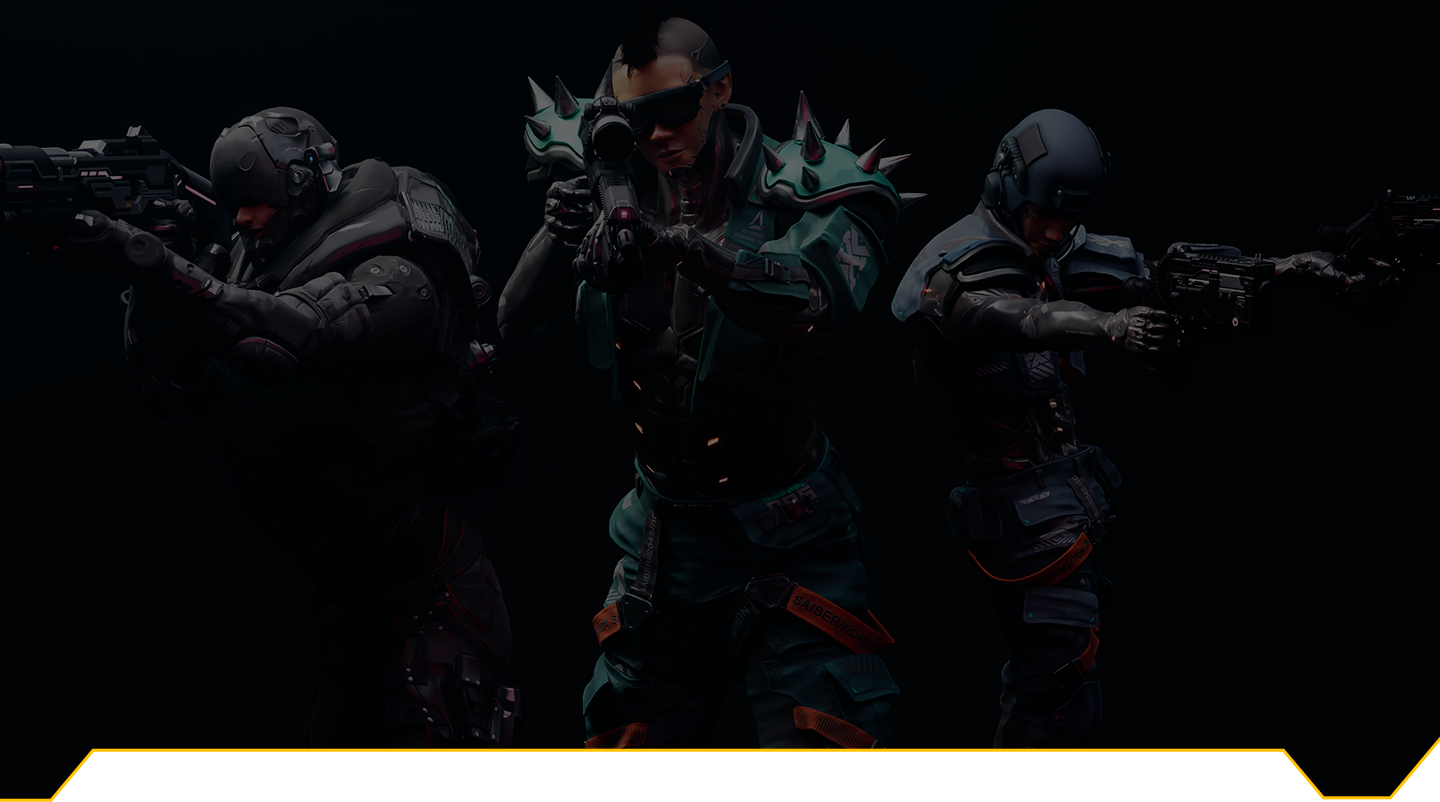
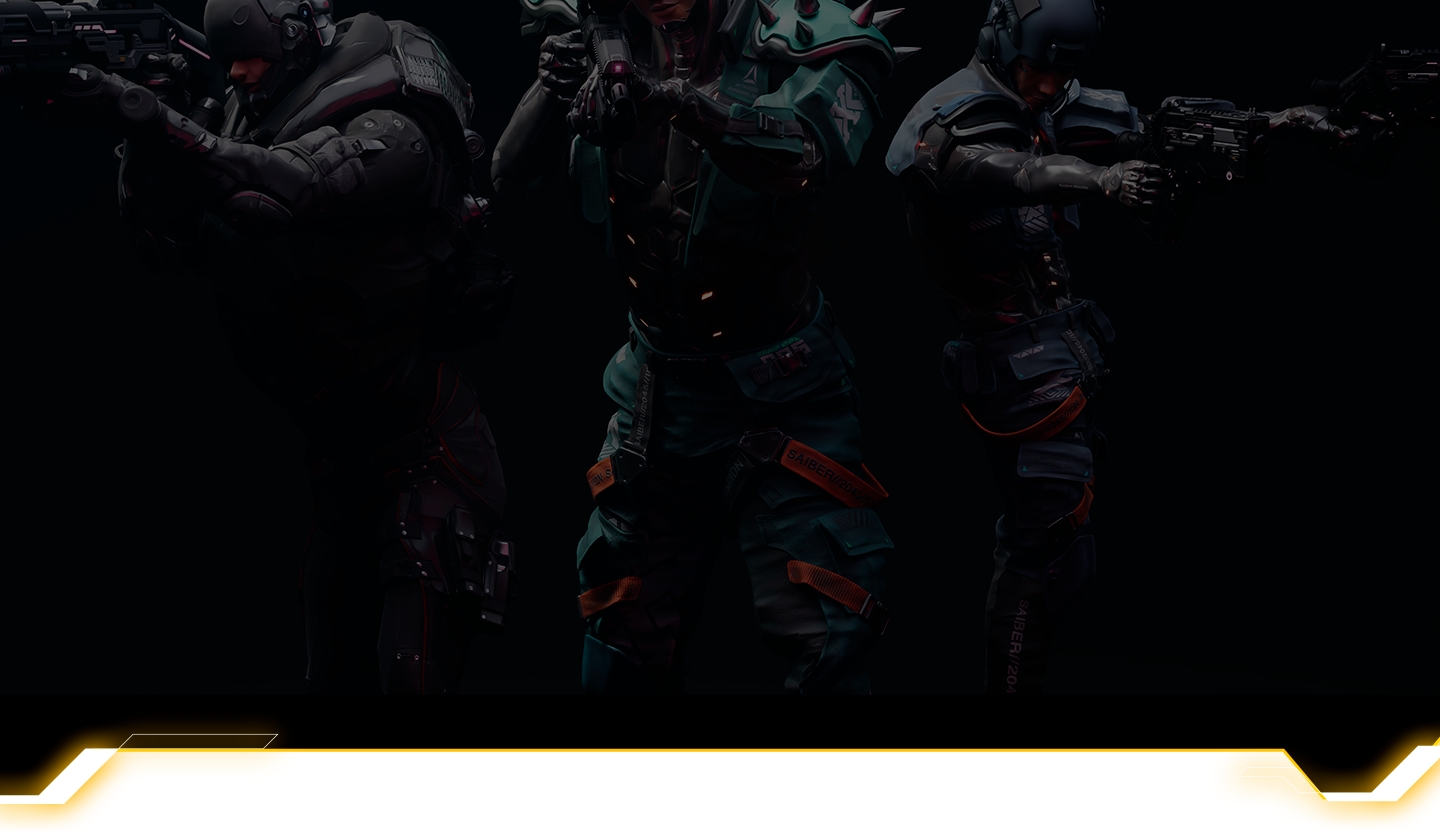
about us page setting

diff --git a/src/Pages/AboutUs/index.js b/src/Pages/AboutUs/index.js
@@ -1,6 +1,4 @@
 import SideEffect from './Images/AboutUsSideEffect.png'
-import Heading from './Images/HeadingText.png'
-import FaddingEffect from './Images/yellow color gradiant.png'
 import Cart from './Images/HowCart.png'
 import RightArrow from './Images/RightArrow.png'
 import Charactart from './Images/man.png'
@@ -8,6 +6,7 @@ import DownArrow from './Images/DownArrows.png'
 import Carousel from 'react-multi-carousel';
 import SliderImg from './Images/slider3rd.png'
 import ThreeMan from './Images/ThreeCharacter.png'
+import BottomEffect from './Images/ImageCurve.png'
 
 const AboutUs = () => {
     const responsive = {
@@ -30,50 +29,34 @@ const AboutUs = () => {
     };
     return <div className="">
         <div className='w-full'>
-        <div className='w-full absolute mt-[8%] z-10 text-white text-center'> 
-        <p className='text-[100px] text-stroke'>ABOUT</p>
-        <p className='text-[100px] text-stroke-us -mt-[3%]'>US</p>
-        <p className='text-[35px] text-[#ffc400]'>ITS TIME TO KNOW US</p>
+        <div className='w-full absolute mt-[10%] z-10 text-white text-center'> 
+        <div className=''>
+        <img src={SideEffect} alt='' className='w-full absolute'/>
+        <p className='text-[100px] text-stroke'>ABOUT</p></div>
+        <p className='text-[100px] text-stroke-us -mt-[4%]'>US</p>
+        <p className='text-[30px] text-[#ffc400] -mt-[2%]'>ITS TIME TO KNOW US</p>
         <div className=''><img src={DownArrow} alt='' className='m-auto w-[100px] cursor-pointer'/></div>
         </div> 
-        {/* <img src={DownArrow} alt='' className='absolute mt-[10%] z-10' />  */}
-        <Carousel
-                responsive={responsive}
-                autoPlay={true}
-                autoPlaySpeed={2000}
-                infinite={true}
-                showDots={false}
-                arrows={false}
-                className=''
-
-            >
-                <div className='w-full'>
-                    <img src={ThreeMan} alt="" className='w-full h-[700px]' />
+        <div className='w-full'>
+                    <img src={ThreeMan} alt="" className='w-full' />
                 </div>
-                <div className='w-full'>
-                    <img src={ThreeMan} alt="" className='w-full h-[700px]' />
-                </div>
-                {/* <div className='w-full'>
-                    <img src={MyImg2} alt="" className='w-full h-[700px]' />
-                </div> */}
-            </Carousel>
             </div>
 
         {/* ************how metaninga Strik2************* */}
 
-        <div className='-mt-[6.3%] bg-black'>
-            <div className='absolute mt-[10%] ml-[6%]'>
-                <p className='text-[400%] text-white font-bold'>How</p>
-                <p className='text-[600%] text-[#ffc400] font-bold -mt-[3%]'>META NINJA STRIKE</p>
+        <div className='bg-black bg-effect lg:-mt-[6%]'>
+            <div className='ml-[6%] pt-[3%]'>
+                <p className='xl:text-[450%] lg:text-[350%] text-white font-bold'>How</p>
+                <p className='xl:text-[550%] lg:text-[450%] text-[#ffc400] font-bold -mt-[3%]'>META NINJA STRIKE</p>
             </div>
-            <div className='flex justify-between m-auto absolute mt-[23%] w-[90%] ml-[6%]'>
-                <div className='text-white w-[50%]'>
+            <div className='flex justify-between m-auto w-[90%] ml-[6%] '>
+                <div className='text-white w-[50%] '>
                     <p className='text-[100px] font-bold -mt-[4%]'>2080</p>
                     <div className='flex items-center -mt-[4%]'>
-                        <p className='text-[60px]'>CAME TO BE</p>
+                        <p className='xl:text-[60px] lg:text-[50px]'>CAME TO BE</p>
                         <div> <img src={RightArrow} alt='' /> </div>
                     </div>
-                    <p className='text-sm'>Lorem Ipsum is simply dummy text of the printing and typesetting industry. Lorem Ipsum has been the industry's standard dummy text ever since the 1500s, when an unknown printer took a galley of type and scrambled it to make a type specimen book.
+                    <p className='text-sm '>Lorem Ipsum is simply dummy text of the printing and typesetting industry. Lorem Ipsum has been the industry's standard dummy text ever since the 1500s, when an unknown printer took a galley of type and scrambled it to make a type specimen book.
                         It has survived not only five centuries, but also the leap into electronic typesetting, remaining essentially unchanged.
                          It was popularised in the 1960s with the release of Letraset sheets containing Lorem Ipsum passages,
                          and more recently with desktop publishing software like Aldus PageMaker including versions of Lorem Ipsum.Lorem Ipsum is simply dummy text of the printing and typesetting industry. Lorem Ipsum has been the industry's standard dummy text ever since the 1500s, when an unknown printer took a galley of type and scrambled it to make a type specimen book.
@@ -84,24 +67,23 @@ const AboutUs = () => {
                 <div className='w-[50%]'> <img src={Cart} alt='' className='float-right' /></div>
             </div>
        
-            <img src={FaddingEffect} alt='' className='w-full' />
+            {/* <img src={FaddingEffect} alt='' className='w-full' /> */}
         </div>
 
 
 {/* ********************** OUR STORY ********************** */}
 
 
-<div className='-mt-[25%] bg-black'>
-<div className='ml-[23%] -mt-[10%] absolute '>
+<div className='bg-black bg-effect -mt-[20%]'>
+<div className='ml-[23%]'>
         <img src={DownArrow} alt='' className=''/>
         </div>
-    <div className='flex justify-between'>
-        <div className='w-1/2'> <img src={Charactart} alt=''/> </div>
-        <div className='mr-[3%] w-1/2'>
-        <img src={DownArrow} alt='' className=''/>
     <div className=''>
+        <div className='w-[48%] right-0 absolute'>
+        <img src={DownArrow} alt='' className='ml-[60%]'/>
+    <div className='-mt-[2%] mr-6'>
         <div className='flex items-center text-[#ffc400] text-[80px] font-bold'><p>OUR</p><img src={RightArrow} alt='' className=''/> </div>
-        <p className='text-[#ffc400] text-[80px] font-bold'>STORY</p>
+        <p className='text-[#ffc400] text-[80px] font-bold -mt-[4%]'>STORY</p>
         <p className='text-sm text-white'>Lorem Ipsum is simply dummy text of the printing and typesetting industry. Lorem Ipsum has been the industry's standard dummy text ever since the 1500s, when an unknown printer took a galley of type and scrambled it to make a type specimen book.
                         It has survived not only five centuries, but also the leap into electronic typesetting, remaining essentially unchanged.Lorem Ipsum is simply dummy text of the printing and typesetting industry. Lorem Ipsum has been the industry's standard dummy text ever since the 1500s, when an unknown printer took a galley of type and scrambled it to make a type specimen book.
                         It has survived not only five centuries, but also the leap into electronic typesetting, remaining essentially unchanged.Lorem Ipsum is simply dummy text of the printing and typesetting industry. Lorem Ipsum has been the industry's standard dummy text ever since the 1500s, when an unknown printer took a galley of type and scrambled it to make a type specimen book.
@@ -110,7 +92,9 @@ const AboutUs = () => {
                           </p>
     </div>
         </div>
+        <div className=''> <img src={Charactart} alt='' className='w-full'/> </div>
     </div> 
+    {/* <img src={BottomEffect} alt='' className='b -mt-[12%] w-full' /> */}
 </div>
     </div>
 }

diff --git a/src/Components/Navabr/index.js b/src/Components/Navabr/index.js
@@ -26,7 +26,7 @@ const Navbar = () => {
   const navigation = [
     { name: 'STRIKE', href: '/strike', current: true },
     { name: 'GAMES', href: '/games', current: false },
-    { name: 'NFT-MARKITPLACE', href: '/nft', current: false },
+    { name: 'NFTMARKITPLACE', href: '/nft', current: false },
     { name: 'GALLERY', href: '/gallery', current: false },
     // { name: 'MARKITPLACE', href: '/marketplace', current: false },
     { name: 'COMMUNITY', href: '/community', current: false },
@@ -87,14 +87,14 @@ const Navbar = () => {
                     alt="Meta Ninja Strike - Logo"
                   />
                 </div>
-                <div className='nav-cutting-parent bg-[#ffc400] h-[44px] flex items-center lg:w-[60%] z-10'>
+                <div className='nav-cutting-parent bg-[#ffc400] h-[44px] flex items-center lg:w-[83%] xl:w-[70%] z-10'>
                   <div className="hidden h-[40px] mx-0.5 lg:block bg-black nav-cutting w-full">
-                    <div className="grid grid-cols-5 text-center">
+                    <div className="flex justify-between text-center">
                       {navigation.map((item) => (
                         <a
                           key={item.name}
                           href={item.href}
-                          className=' text-[15px] font-medium text-white hover:bg-[#ffc400] hover:text-black py-2.5 h-full'
+                          className='text-[15px] font-medium text-white hover:bg-[#ffc400] hover:text-black py-2.5 px-3 w-full h-full'
                           aria-current={item.current ? 'page' : undefined}
                         >
                           {item.name}
@@ -107,15 +107,15 @@ const Navbar = () => {
 
 
 
-              <div className="absolute inset-y-0 right-0 flex items-center sm:static sm:inset-auto sm:ml-6 sm:pr-0 lg:w-[15%]">
+              <div className="absolute inset-y-0 right-0 flex items-center sm:static sm:inset-auto sm:ml-6 sm:pr-0 lg:w-[17%]">
 
-                <Menu as="div" className="relative ml-3">
+                <Menu as="div" className="relative">
                   <div>
-                    <Menu.Button className="relative flex rounded-full text-sm">
+                     <Menu.Button className="relative flex rounded-full text-sm">
                       <span className="absolute -inset-1.5" />
                       <span className="sr-only">Open user menu</span>
-                      <div className='cont_wallet-btn-parent bg-[#EC9C2E] h-[70px] z-10'>
-                        <button className='cont_wallet-btn sm:px-10 py-2 md:text-xl h-[70px] text-[10px] font-medium text-black w-full bg-[#ffc400]'> Connect Wallet </button>
+                      <div className='cont_wallet-btn-parent w-full bg-[#EC9C2E] h-[70px] z-10 xl:ml-6'>
+                        <button className='cont_wallet-btn px-8 lg:px-3 xl:px-5 md:text-[15px] h-[70px] text-[10px] font-medium text-black bg-[#ffc400] w-full'>Connect Wallet</button>
                       </div>
                     </Menu.Button>
                   </div>

diff --git a/src/App.css b/src/App.css
@@ -30,7 +30,8 @@
 
   .cont_wallet-btn-parent {
     /* clip-path: polygon(100% 20%, 100% 100%, 5% 100%, 0% 80%, 0% 0%, 95% 0%); */
-    clip-path: polygon(20% 20%, 90% 20%, 80% 80%, 10% 80%);
+    clip-path: polygon(10% 20%, 100% 20%, 90% 80%, 0% 80%);
+    
 
   }
 
@@ -121,4 +122,16 @@
 }
 .text-stroke-us {
   -webkit-text-stroke: 1px #ffc400; 
+}
+
+
+@font-face {
+  font-family: 'Asus Rog Regular';
+  src: local('Asus Rog Regular'),
+       url('./Components/assets/Fonts/Fonts/asusrog_regular.ttf') format('truetype'); /* Correct format and adjusted path */
+  font-weight: normal;
+  font-style: normal;
+}
+body {
+  font-family: 'Asus Rog Regular';
 }
